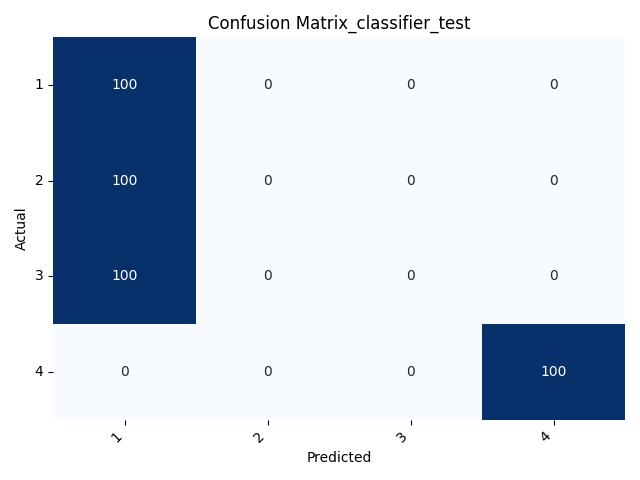
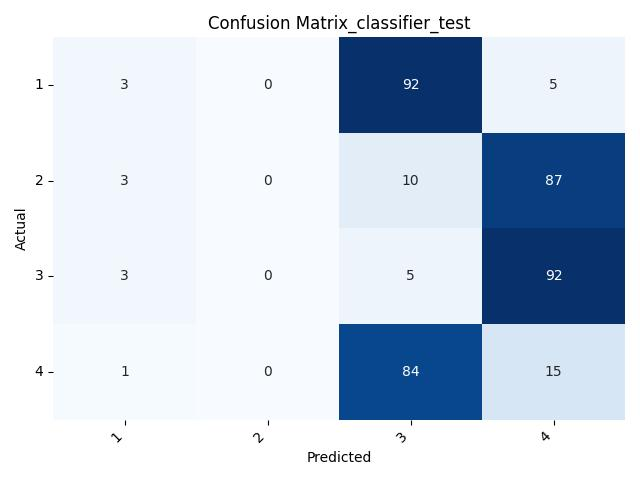
per_peak_minmax_excl_chip10_no_noise_class4

diff --git a/utils/data_utils.py b/utils/data_utils.py
@@ -91,8 +91,6 @@ def load_and_preprocess_test_data(file_path, fraction=1, random_seed=42):
     # Shuffle dataset
     df = df.sample(frac=1, random_state=random_seed).reset_index(drop=True)
 
-    df_copy = df.copy()  # Copy for normalization calculations
-
     # Take only a fraction of the dataset
     df = df.iloc[:int(len(df) * fraction)]
 
@@ -121,20 +119,32 @@ def load_and_preprocess_test_data(file_path, fraction=1, random_seed=42):
     # X_norm = (X.subtract(row_min, axis=0)
     #             .div(denominator, axis=0))
     
-    # Min-Max normalization per row for samples with Class 4 excluded
-    # Identify Class 4 (to exclude from normalization)
-    class_4_encoded = label_encoder.transform(['4'])[0]
-    mask_not_class4 = (df['Class'] != class_4_encoded)
+    # # Min-Max normalization per row for samples with Class 4 excluded
+    # # Identify Class 4 (to exclude from normalization)
+    # class_4_encoded = label_encoder.transform(['4'])[0]
+    # mask_not_class4 = (df['Class'] != class_4_encoded)
 
-    # Min-Max normalization per row for samples not in Class 4
-    row_min = X[mask_not_class4].min(axis=1)
-    row_max = X[mask_not_class4].max(axis=1)
-    denominator = (row_max - row_min).replace(0, 1)
+    # # Min-Max normalization per row for samples not in Class 4
+    # row_min = X[mask_not_class4].min(axis=1)
+    # row_max = X[mask_not_class4].max(axis=1)
+    # denominator = (row_max - row_min).replace(0, 1)
 
-    X.loc[mask_not_class4] = (
-        X.loc[mask_not_class4].subtract(row_min, axis=0)
-                              .div(denominator, axis=0)
-    )
+    # X.loc[mask_not_class4] = (
+    #     X.loc[mask_not_class4].subtract(row_min, axis=0)
+    #                           .div(denominator, axis=0)
+    # )
+
+    # --- per-Peak Min-Max normalization using precomputed stats saved as .csv ---
+    # Load column-wise min/max values from training
+    col_stats_path = f'/Users/steliospapargyris/Documents/MyProjects/data_thesis/per_peak_minmax_excl_chip10_class4/fts_mzi_dataset/col_minmax_stats_excl_chip10_class4.csv'
+    stats_df = pd.read_csv(col_stats_path, index_col=0)
+    col_min = stats_df['min']
+    col_max = stats_df['max']
+    denominator = (col_max - col_min).replace(0, 1)
+
+    # Apply Min-Max normalization using saved stats
+    X = X.subtract(col_min).div(denominator)
+
     #  # --- Robust Normalization: (x - median) / IQR ---
     # row_median = X.median(axis=1)
     # row_q75 = X.quantile(0.75, axis=1)

diff --git a/utils/config.py b/utils/config.py
@@ -18,7 +18,7 @@ chip_column = "Chip"
 class_column = "Class"
 target_class = 4
 num_chip_selection = 10
-base_path = f"/Users/steliospapargyris/Documents/MyProjects/data_thesis/every_sample_minmax_every_row_except_class_4/fts_mzi_dataset/{num_chip_selection}chips_no_noise"
+base_path = f"/Users/steliospapargyris/Documents/MyProjects/data_thesis/per_peak_minmax_excl_chip10_class4/fts_mzi_dataset/{num_chip_selection}chips_no_noise"
 current_path = f"{base_path}"
 test_file_path = f'{base_path}/{chip_exclude}.csv'
 matplotlib.use('Agg')  # Use a non-interactive backend
